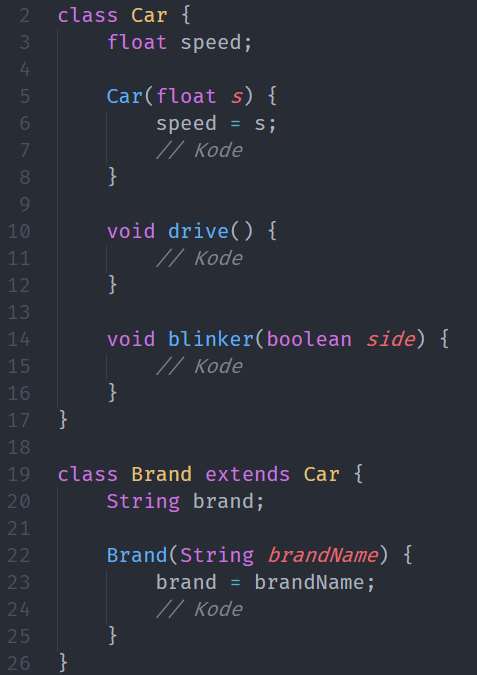
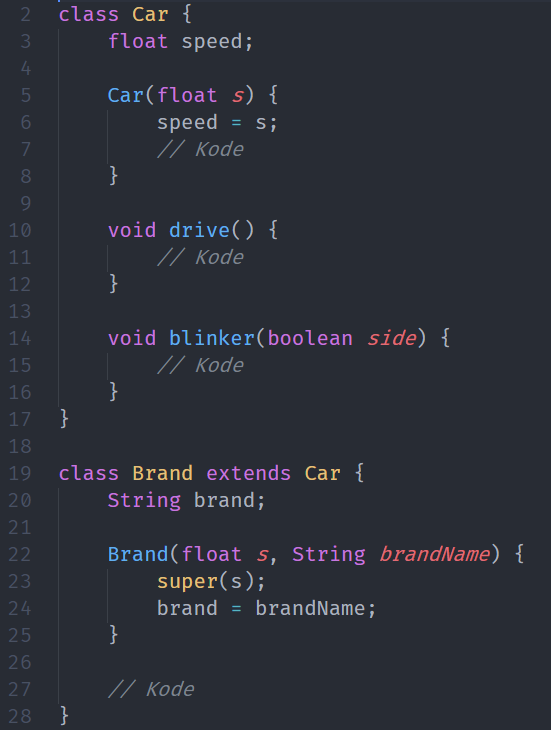
finish touches

diff --git a/README.md b/README.md
@@ -9,10 +9,14 @@ Som ses på kode eksemplet, så hvis man tilføjer et nyt `brand` så vil man st
 Fordelene ved nedarvning er vel at man ikke skal gentage sin kode mange gange når man laver flere objekter.
 
 ## c.) Hvad betyder polymorfi og hvordan virker det?
+Polymorfi betyder `mange former` og det virker ved at man laver en array liste af objekter, og så kan man gennem loops få dem alle til at udføre de samme ting. Eks hvis man har hund og kat i listen, så kan de begge godt sove()?
 
+Polymorfi er at objekter kan have forskellige former under forskellige omstændigheder. Som ses på billede, vi tilføjer 2 `Brand` objekter til vores `allCars` array. Når `Brand` objekterne kommer ind i arrayet vil de objekter blive set som `Car` objekter. `Brand` objekterne bliver accepteret af arrayet fordi de har `Car` som forældre klasse.
+
+![kode eksemple](/images/q-b.PNG)
 
 ## d.) Nævn "fordele" ved polymorfi?
-
+Det kan gøre koden mere overskueligt at man nemt kan lave et for loop som kan kører igennem alle de biler man har og få dem til at køer. Med Polymorfi behøver vi ikke at lave nogle tjeks på hvilken bil der er.
 
 ###### Gruppe
 Gustav og Oliver C
